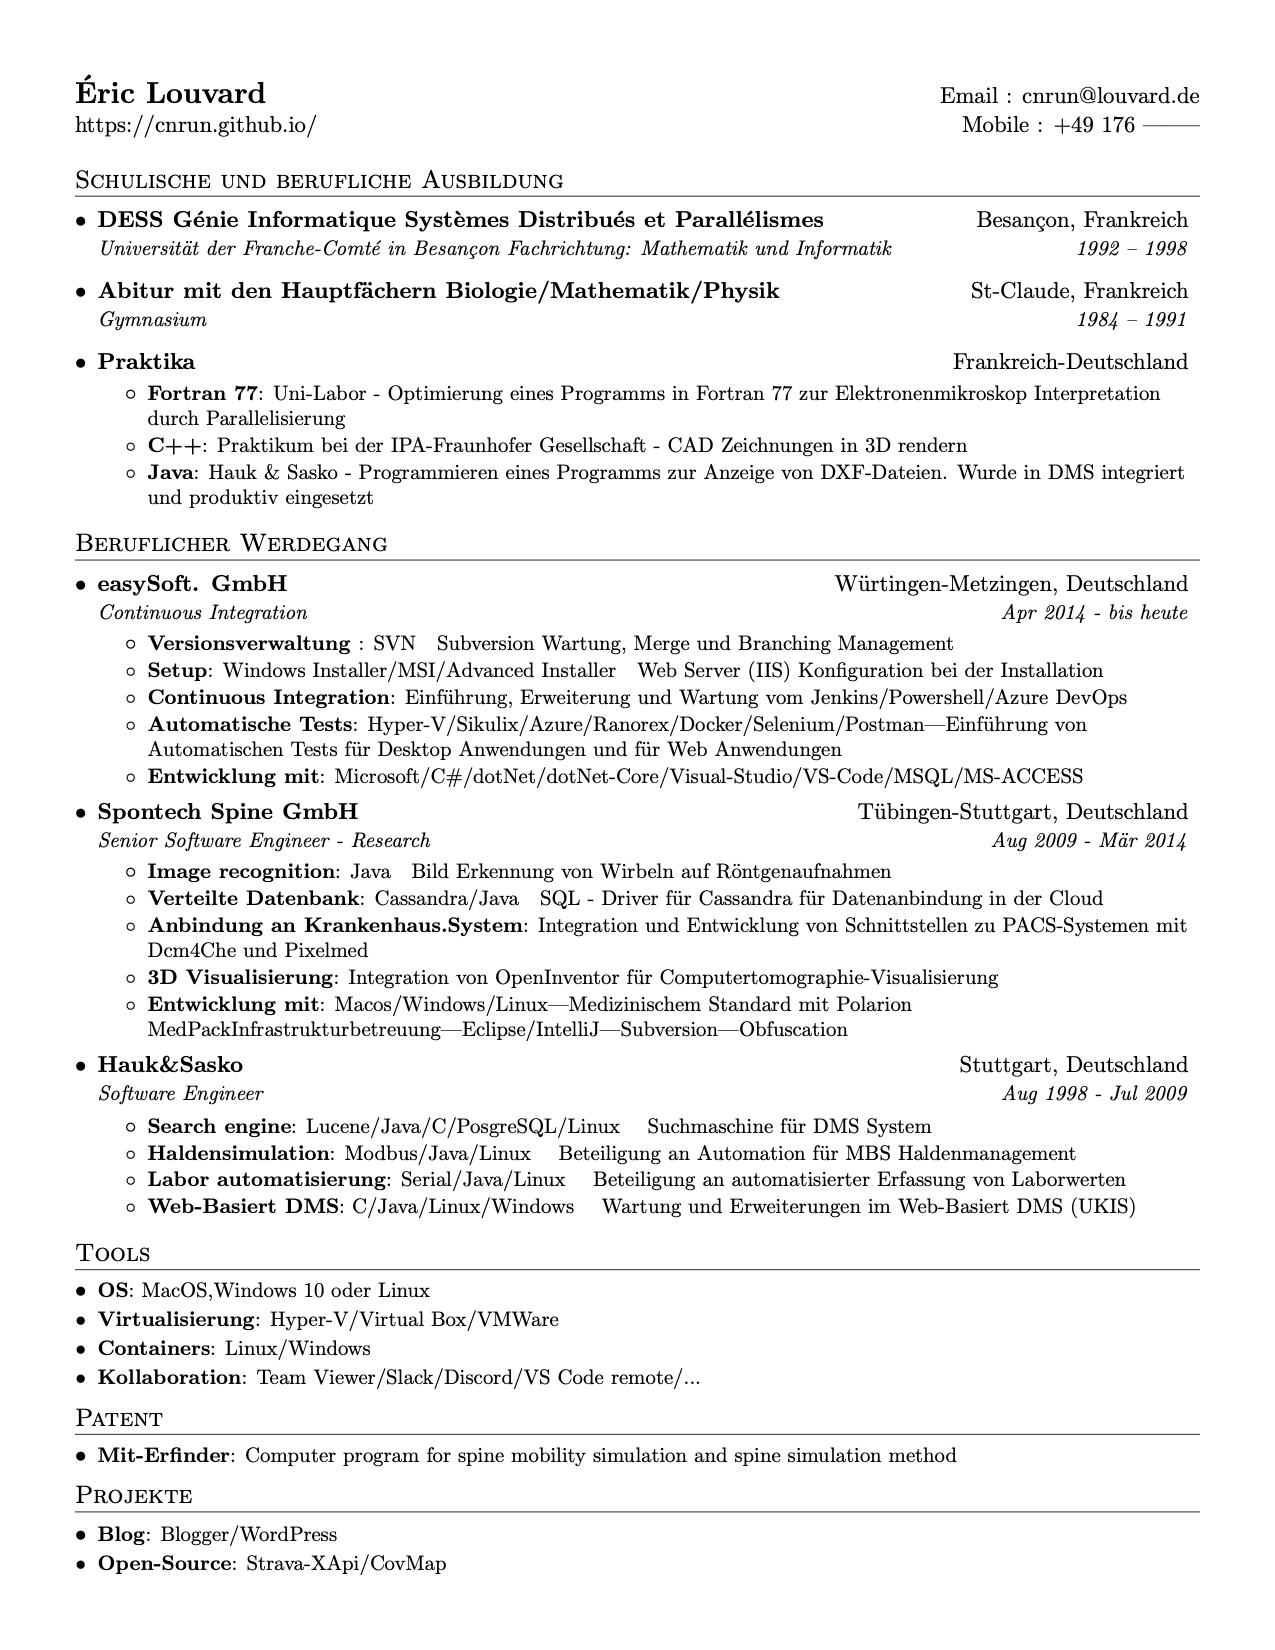
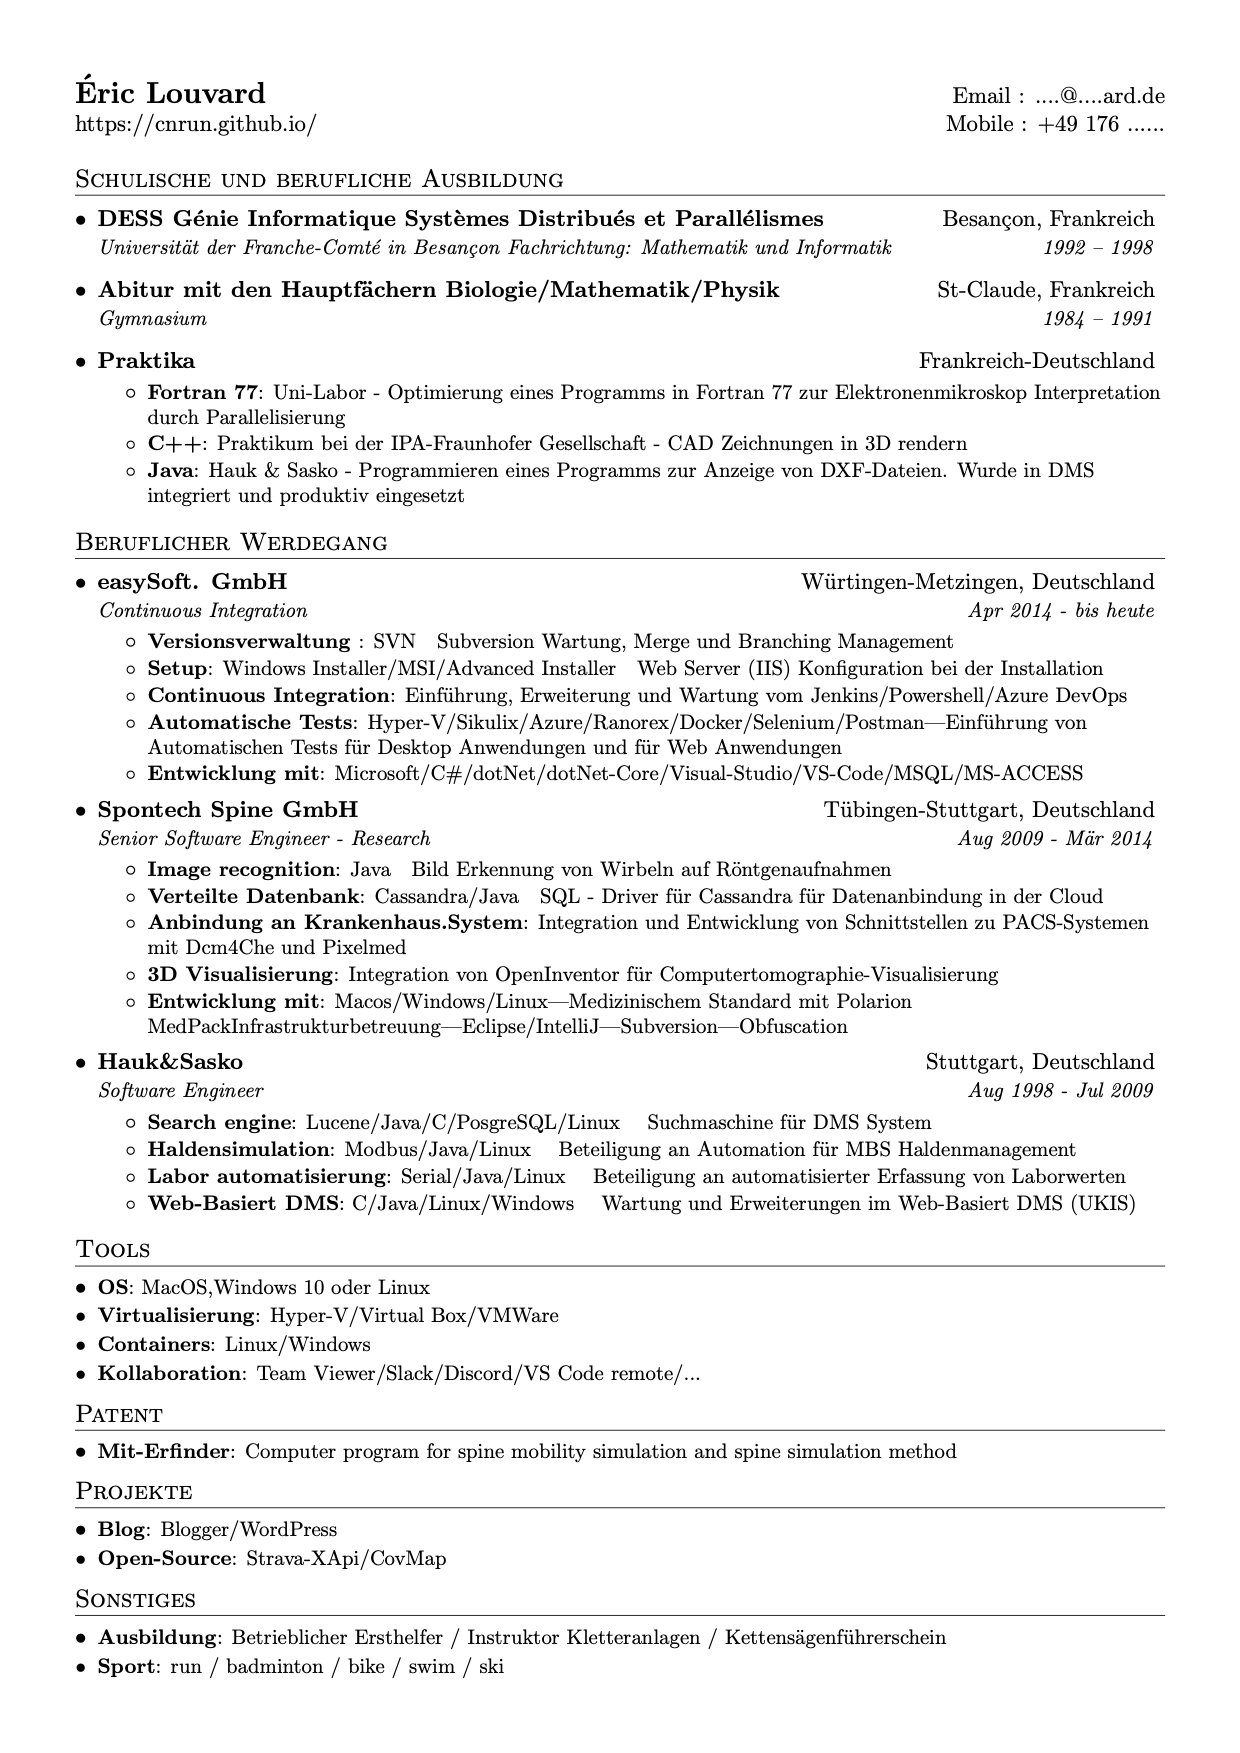
Page format changed. Added Sonstiges.

Changed region(s): [[0.0613, 0.0309, 0.95, 0.9582], [0.5823, 0.9273, 0.7661, 0.9582], [0.4597, 0.9273, 0.5516, 0.9582]]

diff --git a/eric_louvard_resume.tex b/eric_louvard_resume.tex
@@ -5,7 +5,7 @@
 % License : MIT
 %------------------------
 
-\documentclass[letterpaper,11pt]{article}
+\documentclass[a4paper,11pt]{article}
 
 \usepackage{latexsym}
 \usepackage[empty]{fullpage}
@@ -83,8 +83,8 @@
 
 %----------HEADING-----------------
 \begin{tabular*}{\textwidth}{l@{\extracolsep{\fill}}r}
-  \textbf{\href{https://cnrun.github.io/}{\Large Éric Louvard}} & Email : \href{mailto:cnrun@louvard.de}{cnrun@louvard.de}\\
-  \href{https://cnrun.github.io/}{https://cnrun.github.io/} & Mobile : +49 176 -------- \\
+  \textbf{\href{https://cnrun.github.io/}{\Large Éric Louvard}} & Email : \href{mailto:....@....ard.de}{....@....ard.de}\\
+  \href{https://cnrun.github.io/}{https://cnrun.github.io/} & Mobile : +49 176 ...... \\
 \end{tabular*}
 
 
@@ -190,6 +190,13 @@
       {Blogger/WordPress}
     \resumeSubItem{Open-Source}
       {Strava-XApi/CovMap}
+  \resumeSubHeadingListEnd
+\section{Sonstiges}
+  \resumeSubHeadingListStart
+    \resumeSubItem{Ausbildung}
+      {Betrieblicher Ersthelfer / Instruktor Kletteranlagen / Kettensägenführerschein}
+    \resumeSubItem{Sport}
+      {run / badminton / bike / swim / ski}
   \resumeSubHeadingListEnd
 
 %
